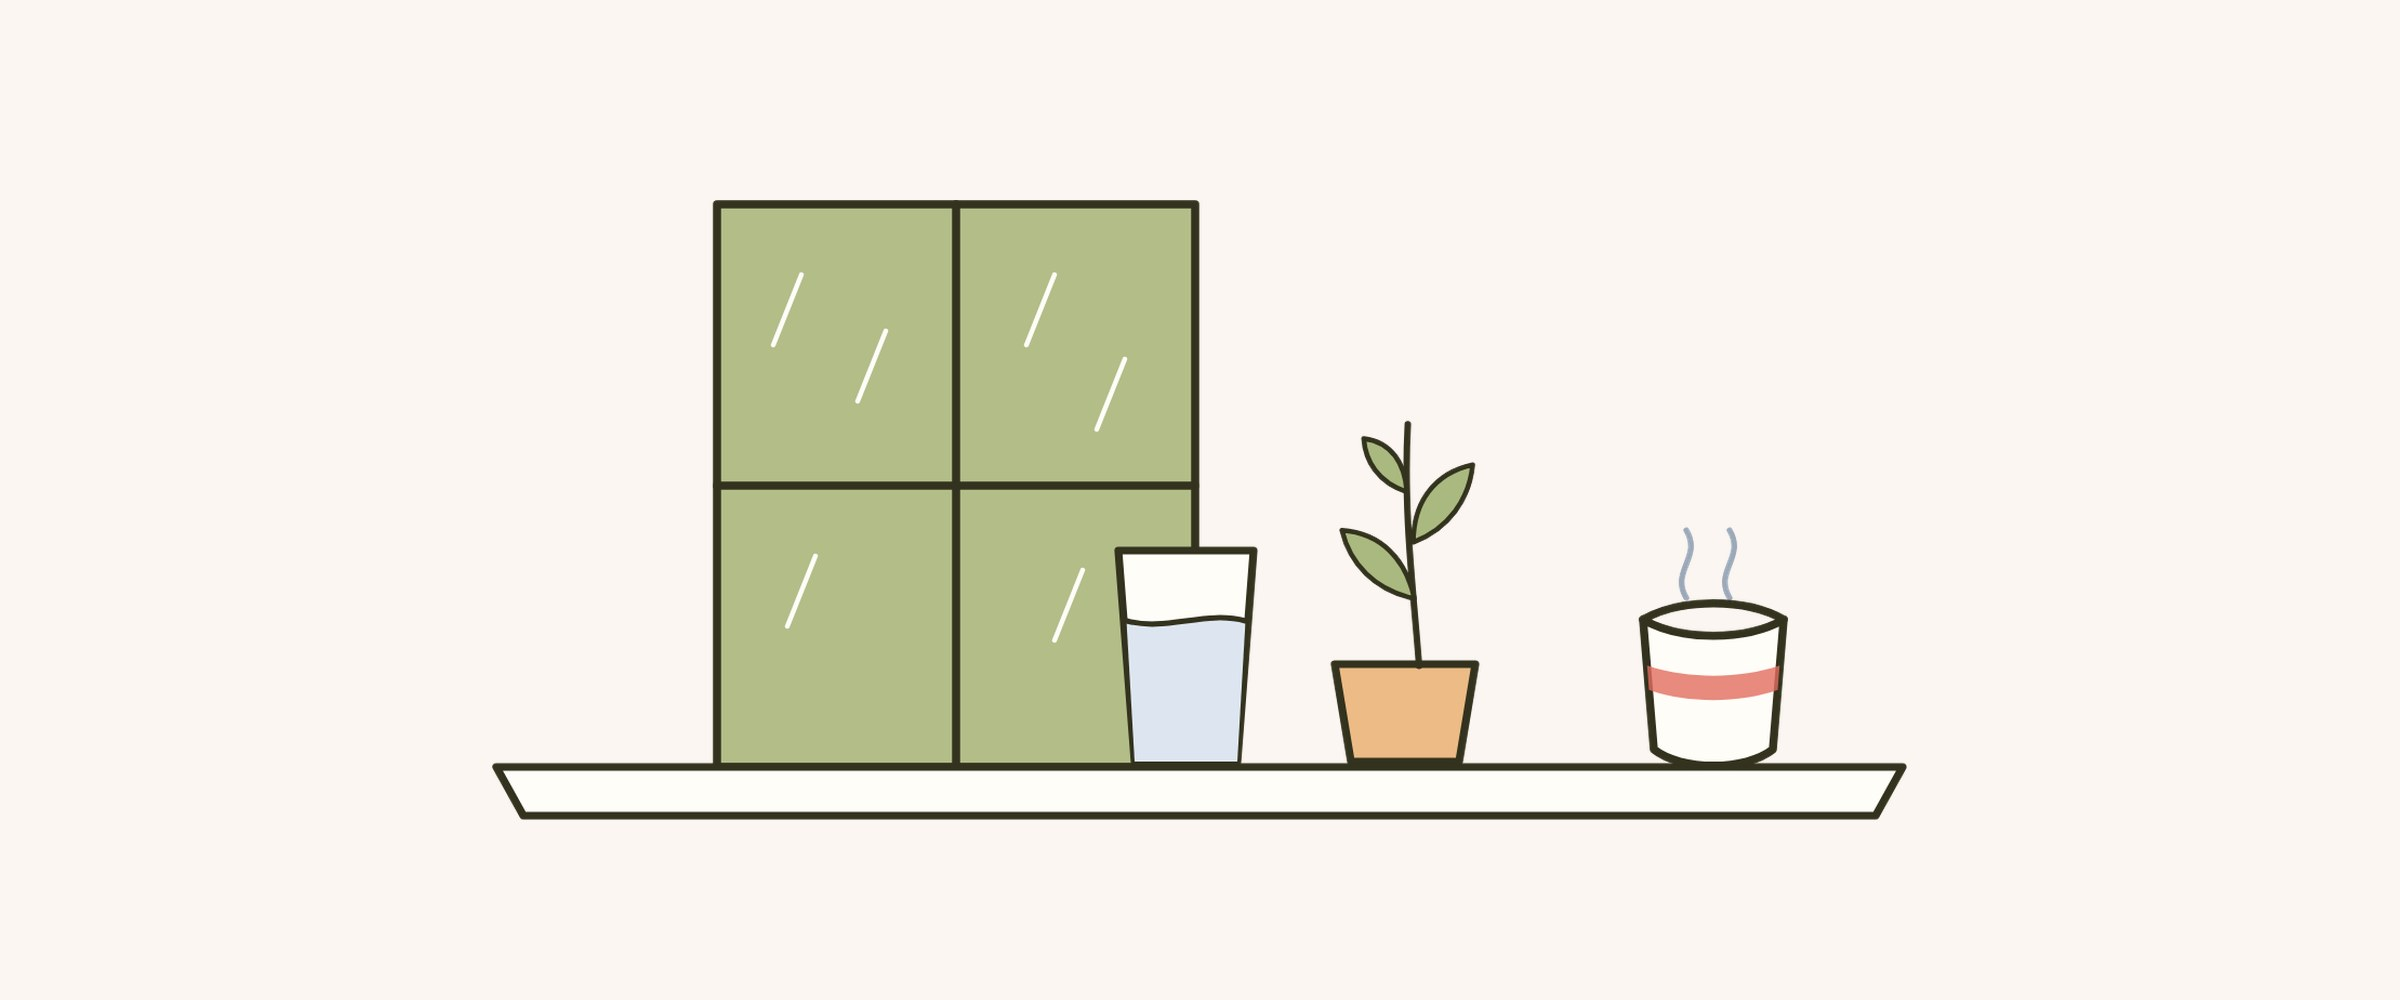
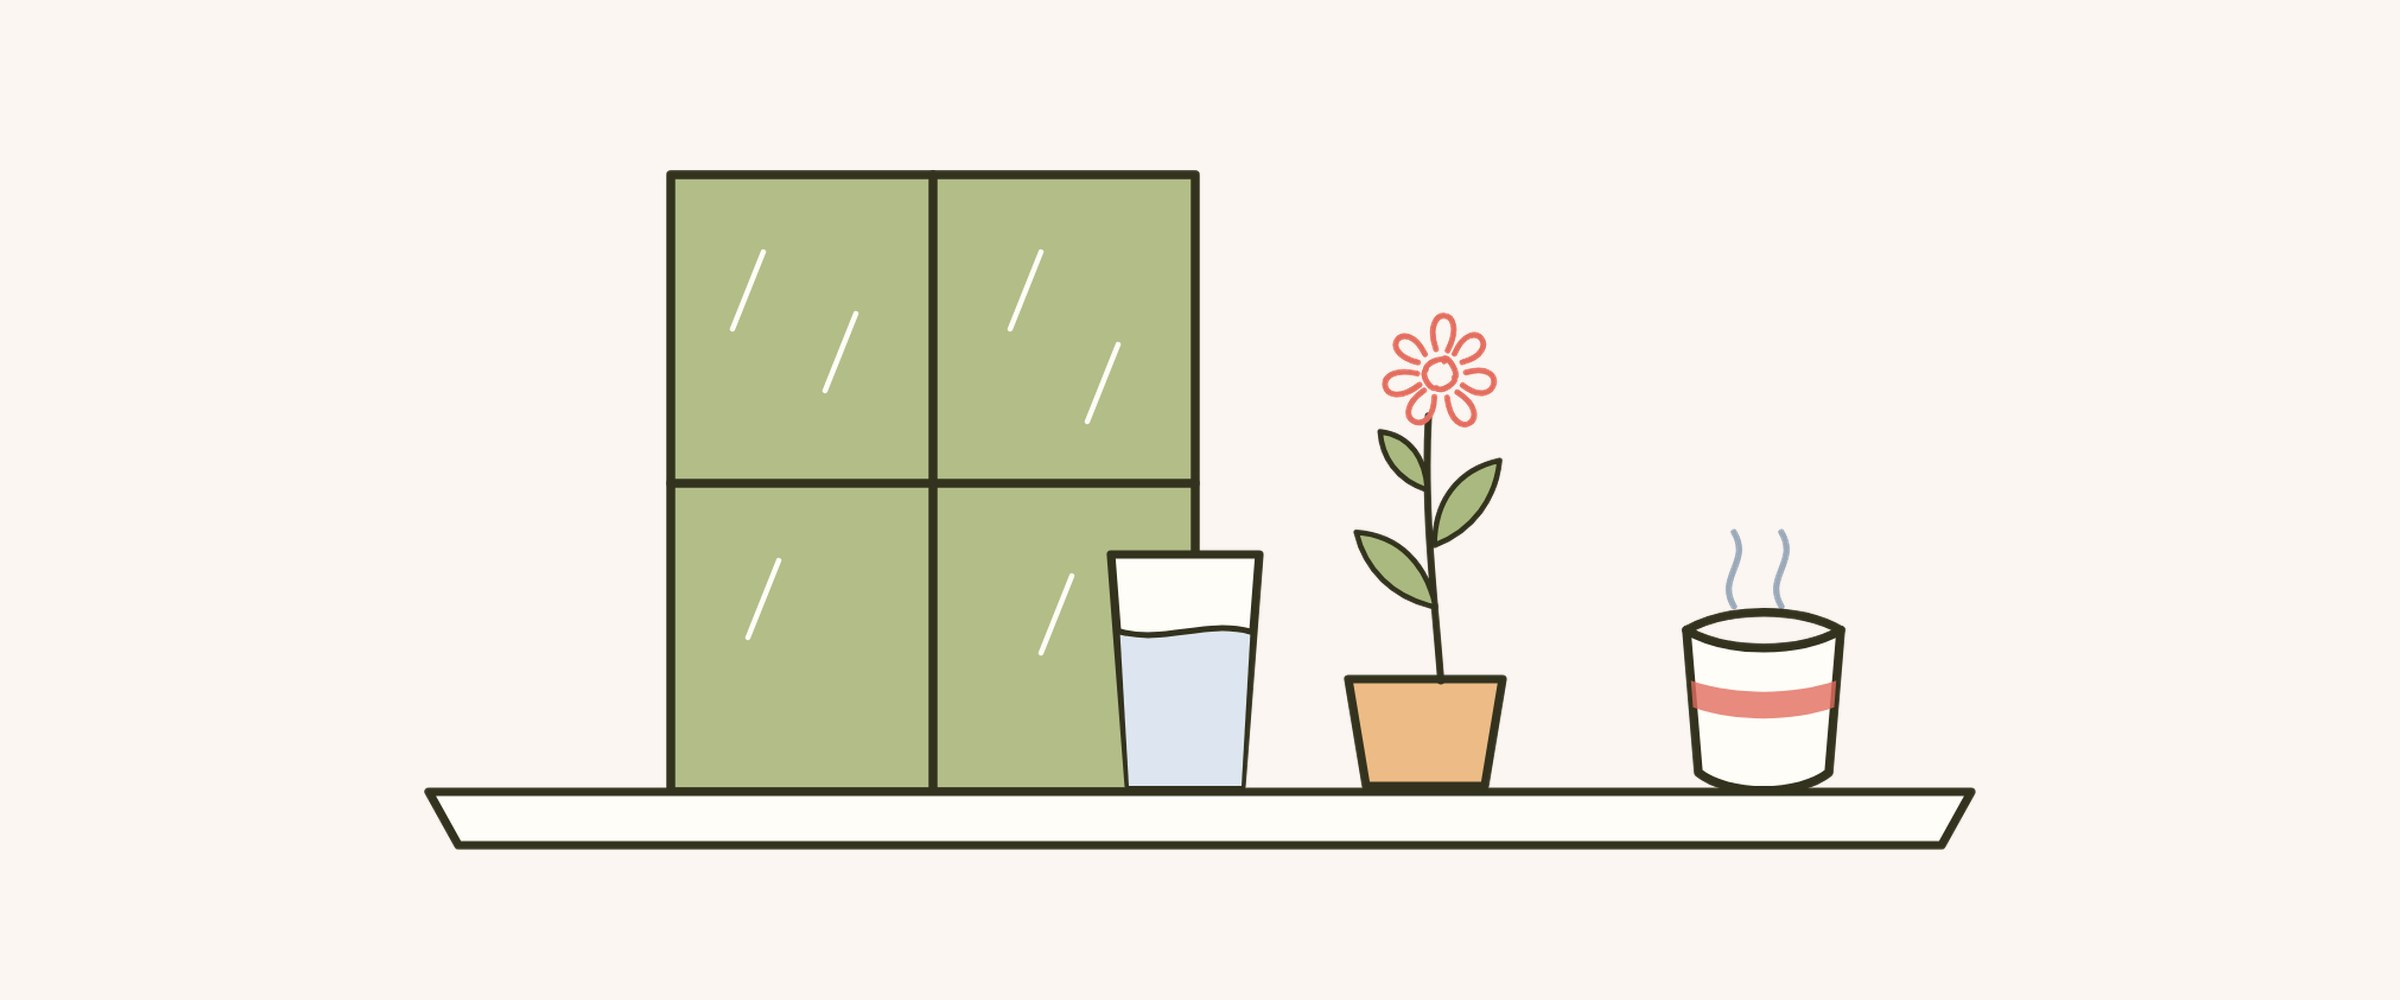
Blog : « Hypersensible et introvertie » — couverture et vignette corrigées (plante en fleur), descriptions des images
Claude-Session: https://claude.ai/code/session_01PdjEtzepz18n7ktGLVAJPt

Changed region(s): [[0.1562, 0.155, 0.8438, 0.868], [0.4375, 0.341, 0.4688, 0.434]]

diff --git a/blog/2026-11-11-hypersensible-et-introvertie-difference/article.md b/blog/2026-11-11-hypersensible-et-introvertie-difference/article.md
@@ -1,13 +1,13 @@
 ---
-# Article mis en page par Camélia (paquet reçu le 2026-11-11) : texte et mise en page dans corps.html
+# Article mis en page par Camélia (paquet reçu le 2026-11-11, images corrigées le même jour) : texte et mise en page dans corps.html
 # et style.css. En-tête, menu, pied de page, titre et couverture : ajoutés par le site.
 titre: Hypersensible et introvertie : quelle différence ?
 date: 2026-11-11
 description: Introvertie, hypersensible, ou les deux ? Ce que veut dire chaque mot, en quoi ils diffèrent, et une page pour voir ce qui te ressemble.
 couverture: hypersensible-et-introvertie-difference-couverture.jpg
-couverture_alt: Une fenêtre aux carreaux verts, un verre d’eau, une petite plante et une tasse fumante posés sur une étagère, dessinés au trait sur un fond crème.
+couverture_alt: Une fenêtre aux carreaux verts, un verre d’eau, une petite plante en fleur et une tasse fumante posés sur une étagère, dessinés au trait sur un fond crème.
 vignette: hypersensible-et-introvertie-difference-vignette.jpg
-vignette_alt: Une fenêtre aux carreaux verts, un verre d’eau, une petite plante et une tasse fumante posés sur une étagère, dessinés au trait sur un fond rose très pâle.
+vignette_alt: Une fenêtre aux carreaux verts, un verre d’eau, une petite plante en fleur et une tasse fumante posés sur une étagère, dessinés au trait sur un fond rose très pâle.
 themes: Hypersensible et introvertie
 corps: corps.html
 style: style.css
